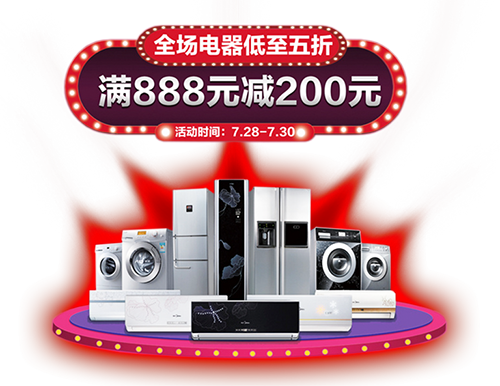
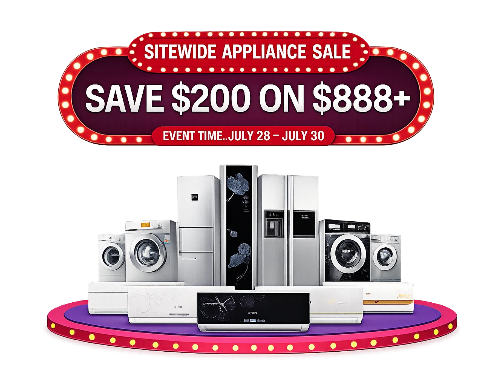
added one image

diff --git a/front_end_pc/css/main.css b/front_end_pc/css/main.css
@@ -660,7 +660,7 @@ html,body{height:100%}
 .login_form_bg{height:480px;background-color:#810101}
 .no-mp{margin-top:0px;}
 .login_form_wrap{width:1000px;height:480px;margin:0 auto;}
-.login_banner{width:500px;height:386px;background:url(../images/login_banner.png) no-repeat;margin-top:40px;}
+.login_banner{width:500px;height:386px;background:url(../images/login_banner.png) center bottom/contain no-repeat;margin-top:40px;}
 .slogan{width:30px;height:300px;font-size:24px;color:#f9dddd;text-align:center;line-height:30px;margin:65px 0 0 30px}
 .login_form{width:368px;height:378px;border:1px solid #c6c6c5;background-color:#fff; margin-top:50px;}
 